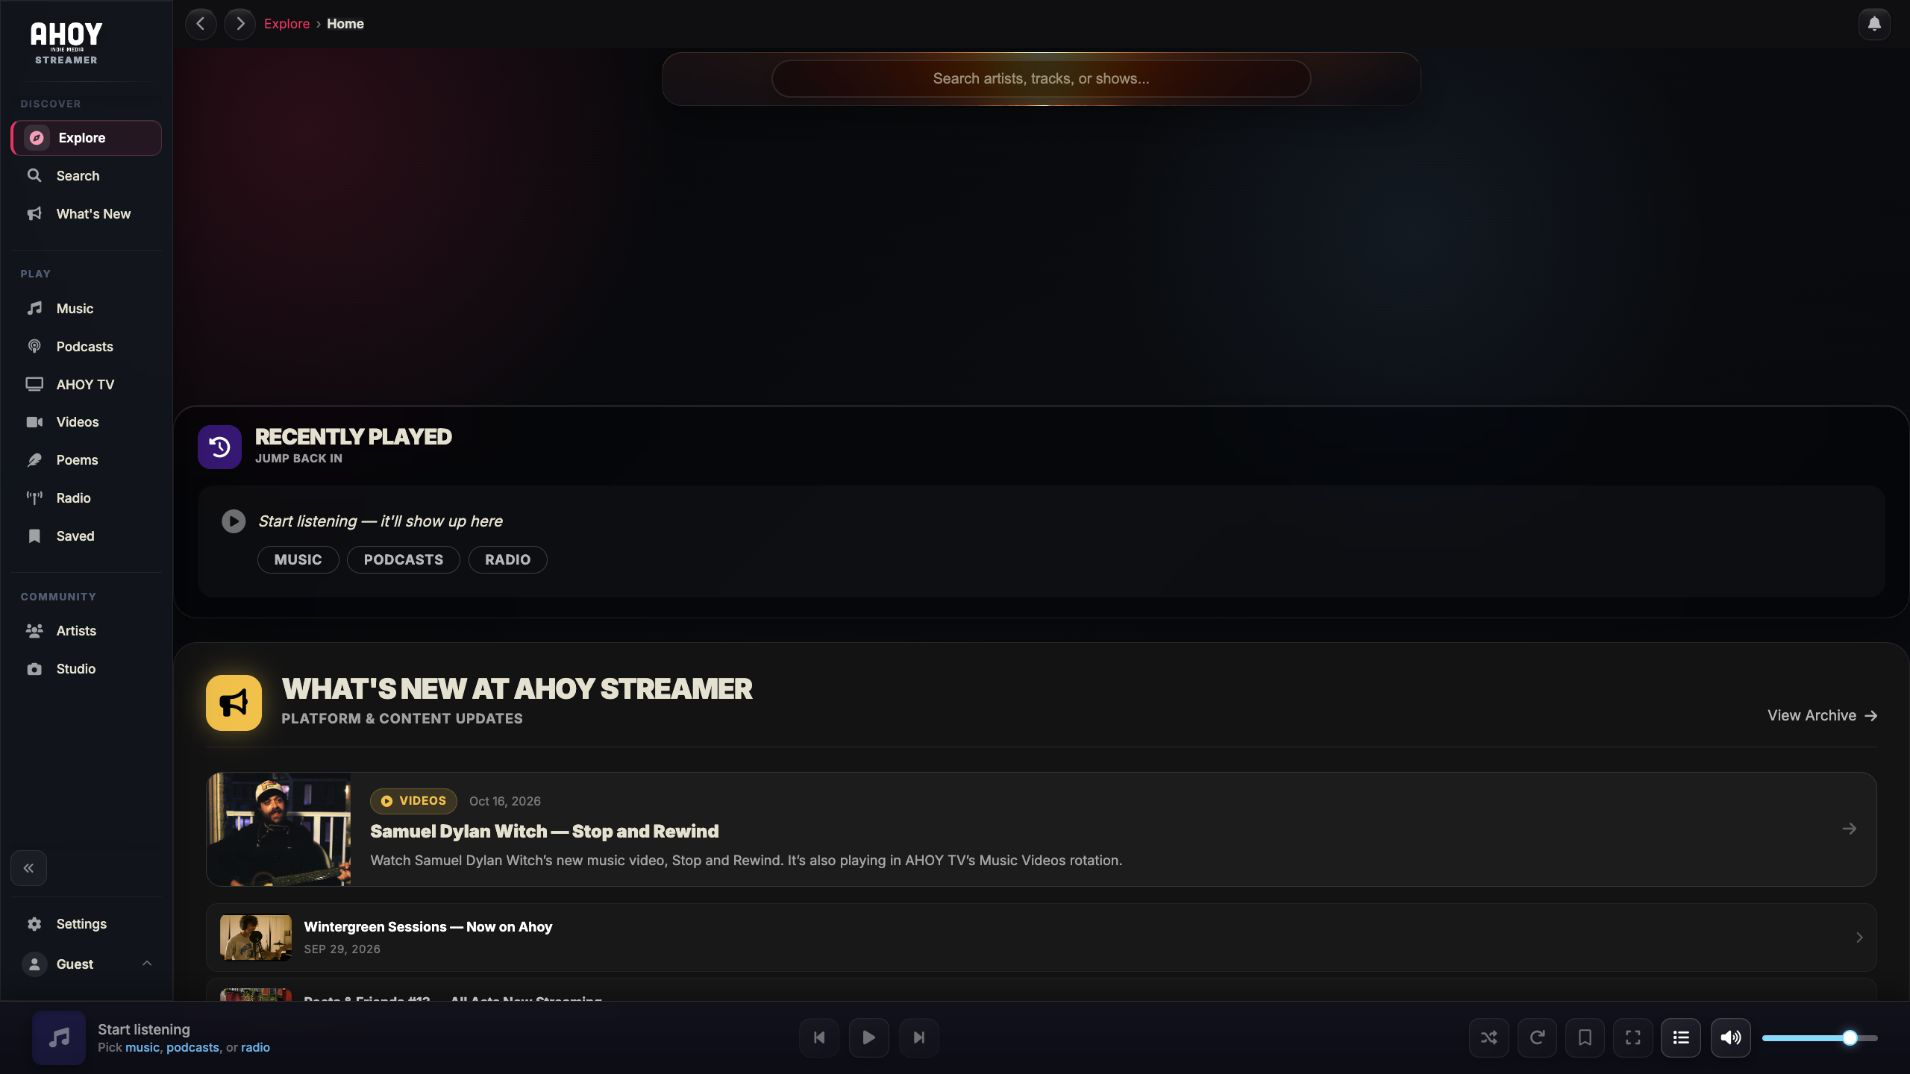
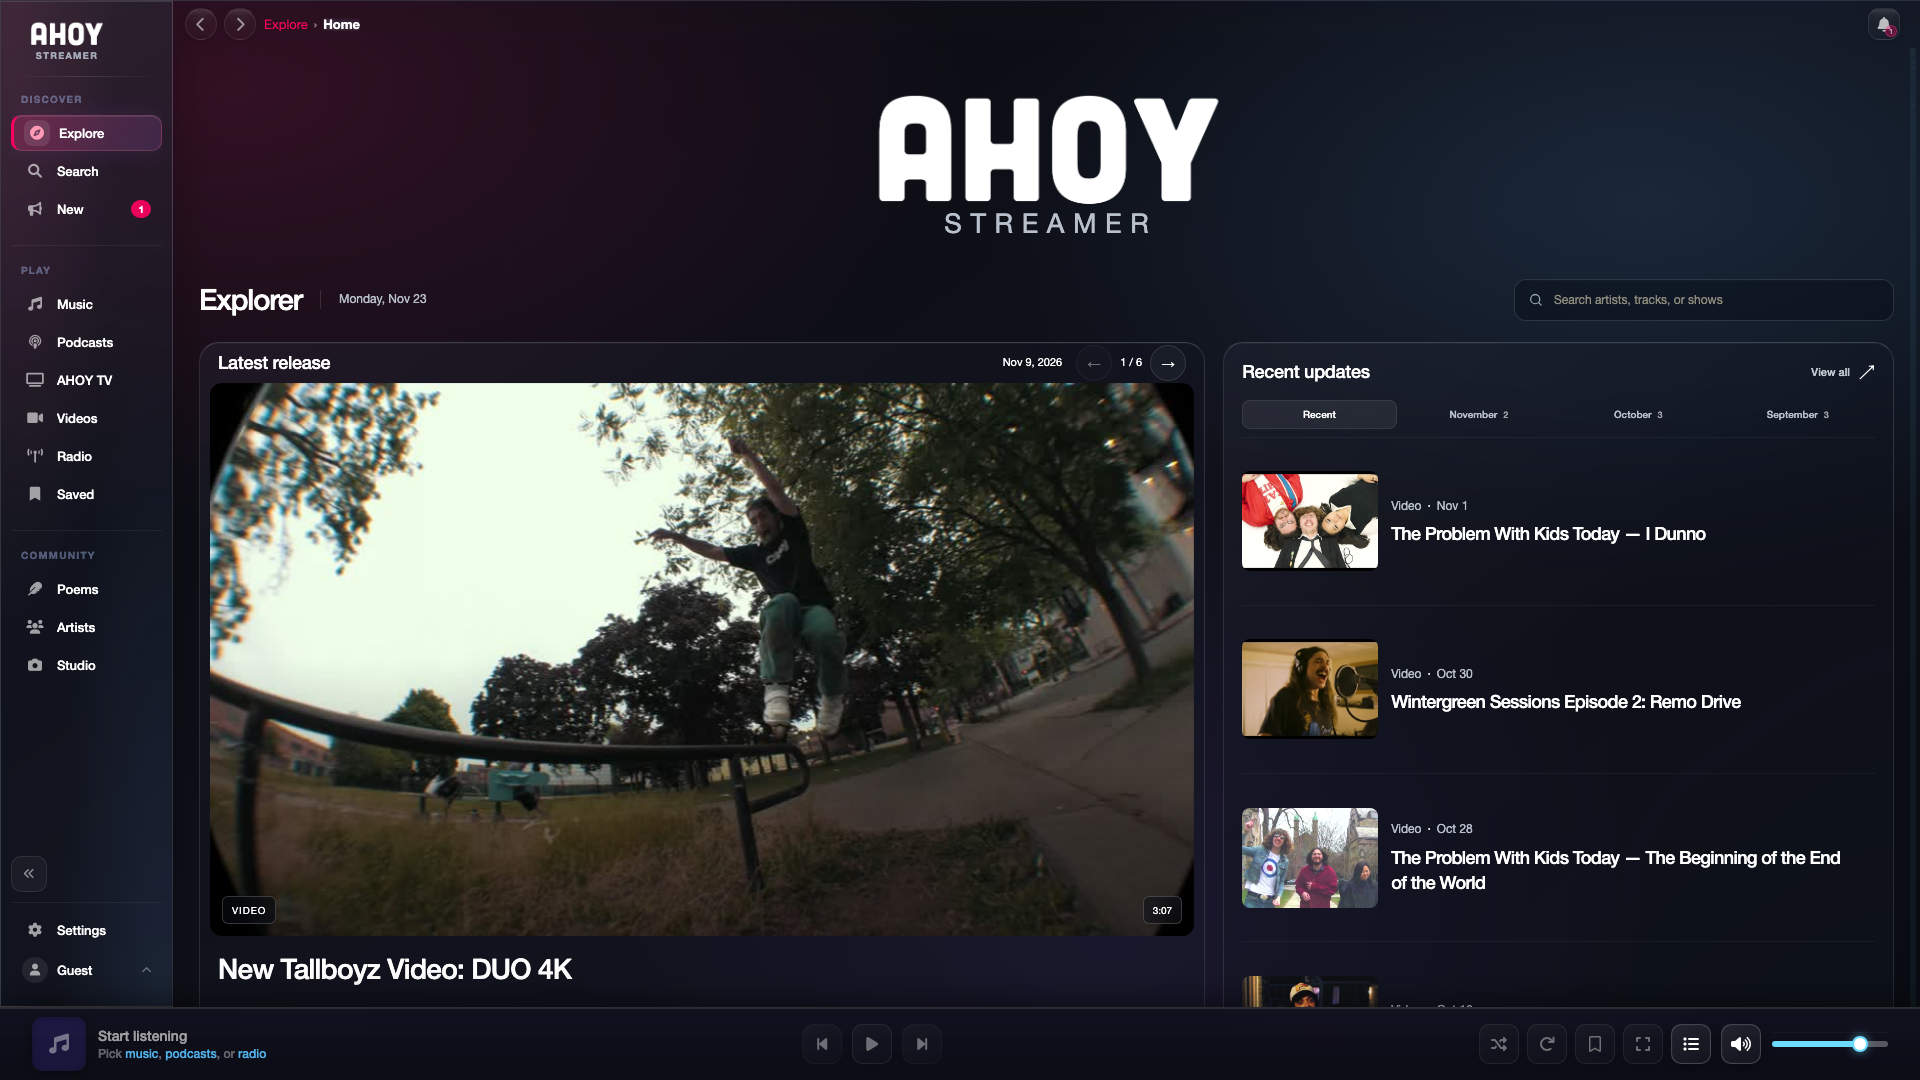
Update Ahoy Streamer thumbnail to live view

diff --git a/product-guides/streamer.html b/product-guides/streamer.html
@@ -35,5 +35,5 @@
 <body><main>
   <header><a href="/" aria-label="AHOY home"><img src="/images/updatedAhoy_A.png" alt="AHOY"></a><nav><a href="/products">Products</a><a href="/download">Downloads</a></nav></header>
   <p class="crumb"><a href="/products">All products</a> / Ahoy Streamer</p>
-  <section class="panel" aria-labelledby="title"><div class="eyebrow">Web app · Works in your browser</div><h1 id="title">Ahoy Streamer</h1><p class="desc">Music, podcasts, events, and film from independent creators, all in one browser friendly place.</p><p class="explain">No install needed. Open it in a browser and explore independent media from New Haven creators.</p><figure class="product-preview"><img src="/images/product-previews/ahoy-streamer-home.png" alt="Ahoy Streamer home screen with media categories, recent listening, updates, and playback controls"><figcaption>A look at the Ahoy Streamer home screen.</figcaption></figure><div class="quick-facts"><section class="fact"><h2>Who it’s for</h2><p>For anyone who wants to discover AHOY music, podcasts, events, and film in a browser.</p></section><section class="fact"><h2>What you need</h2><p>A current web browser and an internet connection. No download or setup is needed.</p></section></div><p class="meta"><strong>Status:</strong> Available as a web app.</p><div class="actions"><a class="button" href="https://app.ahoy.ooo" target="_blank" rel="noopener noreferrer">Open the web app ↗</a></div><a class="back" href="/products">← Back to all AHOY products</a></section>
+  <section class="panel" aria-labelledby="title"><div class="eyebrow">Web app · Works in your browser</div><h1 id="title">Ahoy Streamer</h1><p class="desc">Music, podcasts, events, and film from independent creators, all in one browser friendly place.</p><p class="explain">No install needed. Open it in a browser and explore independent media from New Haven creators.</p><figure class="product-preview"><img src="/images/product-previews/ahoy-streamer-home.png" alt="Live view of the Ahoy Streamer home screen featuring latest release, recent updates, explorer search, and playback controls" width="1920" height="1080" loading="lazy"><figcaption>Live view of the Ahoy Streamer home screen.</figcaption></figure><div class="quick-facts"><section class="fact"><h2>Who it’s for</h2><p>For anyone who wants to discover AHOY music, podcasts, events, and film in a browser.</p></section><section class="fact"><h2>What you need</h2><p>A current web browser and an internet connection. No download or setup is needed.</p></section></div><p class="meta"><strong>Status:</strong> Available as a web app.</p><div class="actions"><a class="button" href="https://app.ahoy.ooo" target="_blank" rel="noopener noreferrer">Open the web app ↗</a></div><a class="back" href="/products">← Back to all AHOY products</a></section>
 </main></body></html>
